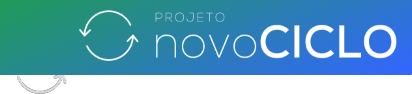
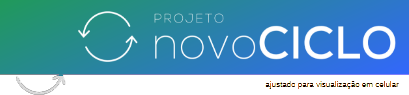
app responsivo

diff --git a/.ipynb_checkpoints/utils-checkpoint.py b/.ipynb_checkpoints/utils-checkpoint.py
@@ -28,8 +28,9 @@ def show_header(show_calculadora=True):
     
     # Mostra a barra superior
     if mobile_mode:
-        st.image("imagem/barra_sup_mob.png", use_container_width=True)
-
+        st.image("imagem/barra_sup_mobile.png", use_container_width=True)
+            # Mostra indicador de modo
+        
         # Links com imagens e botões reais
         col1, col2, col3, col4 = st.columns([3, 1, 1,1 ])
         if show_calculadora:
@@ -51,7 +52,8 @@ def show_header(show_calculadora=True):
                  st.page_link("https://novocicloresiduos.com.br/", label="**Sobre o Projeto**")
         
     else:
-        st.image("imagem/novo_ciclo_sup1.png", use_container_width=True)
+        st.image("imagem/novo_ciclo_sup_desktop, use_container_width=True)
+          # Mostra indicador de modo
 
 
         # Links com imagens e botões reais
@@ -63,6 +65,7 @@ def show_header(show_calculadora=True):
         
             with col4:
                 st.page_link("https://novocicloresiduos.com.br/", label="**Sobre o Projeto**")
+                
         
             # Imagem indicadora da calculadora
             st.image("imagem/calculadora_circulos.png", use_container_width=True)
@@ -74,15 +77,7 @@ def show_header(show_calculadora=True):
             with col4:
                  st.page_link("https://novocicloresiduos.com.br/", label="**Sobre o Projeto**")
     
-    # Mostra indicador de modo
-    mode_indicator = "Modo Celular" if mobile_mode else " Modo Computador"
 
-    st.markdown(f"""
-    
-    <div style="text-align: right; margin: 10px 10px 10px 10px; position: relative; z-index: 100;">
-        <small>{mode_indicator}</small>
-    </div>
-    """, unsafe_allow_html=True)
     
 
 def show_footer():

diff --git a/utils.py b/utils.py
@@ -28,8 +28,9 @@ def show_header(show_calculadora=True):
     
     # Mostra a barra superior
     if mobile_mode:
-        st.image("imagem/barra_sup_mob.png", use_container_width=True)
-
+        st.image("imagem/barra_sup_mobile.png", use_container_width=True)
+            # Mostra indicador de modo
+        
         # Links com imagens e botões reais
         col1, col2, col3, col4 = st.columns([3, 1, 1,1 ])
         if show_calculadora:
@@ -51,7 +52,8 @@ def show_header(show_calculadora=True):
                  st.page_link("https://novocicloresiduos.com.br/", label="**Sobre o Projeto**")
         
     else:
-        st.image("imagem/novo_ciclo_sup1.png", use_container_width=True)
+        st.image("imagem/novo_ciclo_sup_desktop, use_container_width=True)
+          # Mostra indicador de modo
 
 
         # Links com imagens e botões reais
@@ -63,6 +65,7 @@ def show_header(show_calculadora=True):
         
             with col4:
                 st.page_link("https://novocicloresiduos.com.br/", label="**Sobre o Projeto**")
+                
         
             # Imagem indicadora da calculadora
             st.image("imagem/calculadora_circulos.png", use_container_width=True)
@@ -74,15 +77,7 @@ def show_header(show_calculadora=True):
             with col4:
                  st.page_link("https://novocicloresiduos.com.br/", label="**Sobre o Projeto**")
     
-    # Mostra indicador de modo
-    mode_indicator = "Modo Celular" if mobile_mode else " Modo Computador"
 
-    st.markdown(f"""
-    
-    <div style="text-align: right; margin: 10px 10px 10px 10px; position: relative; z-index: 100;">
-        <small>{mode_indicator}</small>
-    </div>
-    """, unsafe_allow_html=True)
     
 
 def show_footer():

diff --git a/.ipynb_checkpoints/app-checkpoint.py b/.ipynb_checkpoints/app-checkpoint.py
@@ -80,11 +80,6 @@ st.markdown("""
 # Mostra cabeçalho
 show_header(show_calculadora=True)
 
-# No início do conteúdo principal, após mostrar o header:
-if "force_mobile" in st.query_params:
-    st.info("📱 Você está visualizando a versão para celular (modo forçado)")
-elif "force_desktop" in st.query_params:
-    st.info("💻 Você está visualizando a versão para computador (modo forçado)")
 
 # === Dados e coeficientes ===
 percentual_coleta_seletiva = {

diff --git a/app.py b/app.py
@@ -80,11 +80,6 @@ st.markdown("""
 # Mostra cabeçalho
 show_header(show_calculadora=True)
 
-# No início do conteúdo principal, após mostrar o header:
-if "force_mobile" in st.query_params:
-    st.info(" Você está visualizando a versão para celular")
-elif "force_desktop" in st.query_params:
-    st.info(" Você está visualizando a versão para computador")
 
 # === Dados e coeficientes ===
 percentual_coleta_seletiva = {
